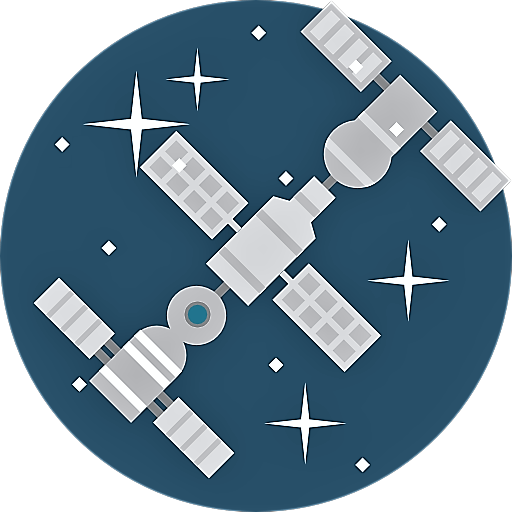
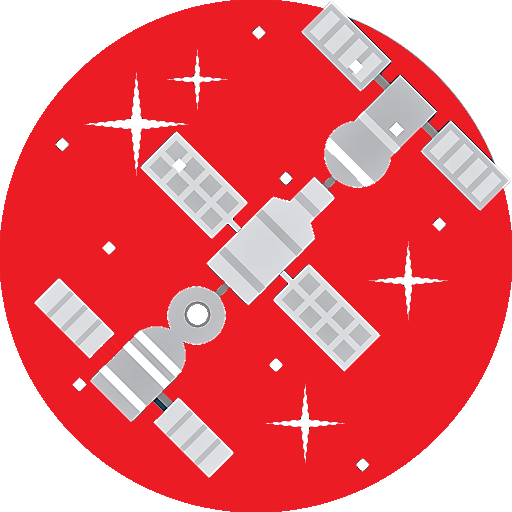
pictures, board increase size,

diff --git a/DodgeGame/MainPage.xaml b/DodgeGame/MainPage.xaml
@@ -5,7 +5,7 @@
     xmlns:local="using:DodgeGame"
     xmlns:d="http://schemas.microsoft.com/expression/blend/2008"
     xmlns:mc="http://schemas.openxmlformats.org/markup-compatibility/2006"
-    mc:Ignorable="d" Height="650" Width="1000" XYFocusKeyboardNavigation="Disabled"
+    mc:Ignorable="d" Height="650" Width="1200" XYFocusKeyboardNavigation="Disabled"
     Background="{ThemeResource ApplicationPageBackgroundThemeBrush}">
 
     <Grid Name="MainGrid">

diff --git a/DodgeGame/Player.cs b/DodgeGame/Player.cs
@@ -14,18 +14,18 @@ namespace DodgeGame
     {
         private double _speed;
         //builds the player with default values
-        public Player(double x = 0, double y = 0, double radius = 16, double speed = 12)
+        public Player(double x = 0, double y = 0, double radius = 16, double speed = 12.5)
             : base(x, y, radius)
         {
             _speed = speed;
             BitmapImage bitmap = new BitmapImage();
-            Uri uri = new Uri("ms-appx:///Assets/ISS.png");
+            Uri uri = new Uri("ms-appx:///Assets/rocket.png");
             bitmap.UriSource = uri;
             ImageBrush playerAlive = new ImageBrush();
             playerAlive.ImageSource = bitmap;
             Circle.Fill = playerAlive;
-            Circle.Stroke = new SolidColorBrush(Colors.Red);
-            Circle.StrokeThickness = 3;
+            Circle.Stroke = new SolidColorBrush(Colors.Yellow);
+            Circle.StrokeThickness = 4;
         }
 
         //kills the player and ends the game

diff --git a/DodgeGame/Board.cs b/DodgeGame/Board.cs
@@ -36,7 +36,7 @@ namespace DodgeGame
         public Board(
             int enemyCount = 10,
             double enemySpeed = 6,
-            double boardSizeX = 1000,
+            double boardSizeX = 1200,
             double boardSizeY = 600)
 
         {
@@ -116,7 +116,7 @@ namespace DodgeGame
             double deltaX = entity1.X - entity2.X;
             double deltaY = entity1.Y - entity2.Y;
             double distance = Math.Sqrt(Math.Pow(deltaX, 2) + Math.Pow(deltaY, 2));
-            return distance > (entity1.Radius + entity2.Radius) * 3.5;
+            return distance > (entity1.Radius + entity2.Radius) * 4;
         }
 
         //Functions for Constructor END

diff --git a/DodgeGame/Enemy.cs b/DodgeGame/Enemy.cs
@@ -15,7 +15,7 @@ namespace DodgeGame
         private double _speed;
 
         // builds enemy with default values
-        public Enemy(int x = 0, int y = 0, double speed = 6 ,double raidus = 19)
+        public Enemy(int x = 0, int y = 0, double speed = 6 ,double raidus = 22)
             : base(x, y, raidus)
         {
             _speed = speed;

diff --git a/DodgeGame/MainPage.xaml.cs b/DodgeGame/MainPage.xaml.cs
@@ -251,7 +251,7 @@ namespace DodgeGame
         private void Hard_Checked(object sender, RoutedEventArgs e)
         {
             enemyCount = 13;
-            enemySpeed = 7.3;
+            enemySpeed = 7.5;
             gameMode = "Hard";
         }
 
